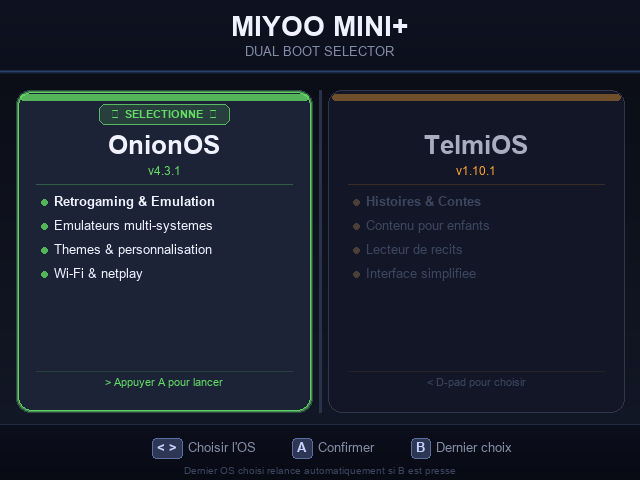
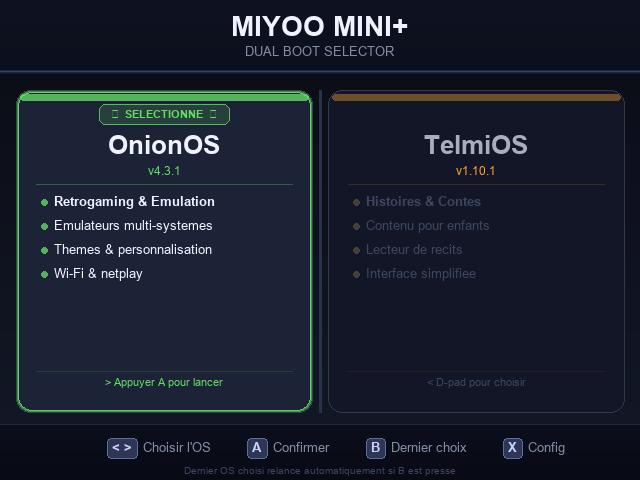
fix: changer declencheur config de SELECT vers X
Sur Miyoo Mini/Plus, SELECT envoie le meme code que A (57/97),
rendant impossible la distinction des deux boutons. Utilisation
du bouton X (code 33, inutilise dans le menu) comme declencheur
du menu de configuration.

- runtime.sh : X (33) -> mode config ; A restaure avec 57/97/305/315
- generate_bootmenu.py : ajout "X = Config" dans la barre d'aide
  des menus de boot (FR/EN/ES) ; previews mis a jour
- README.md : SELECT remplace par X dans toute la documentation

Changed region(s): [[0.1562, 0.9062, 0.875, 0.9688]]

diff --git a/generate_bootmenu.py b/generate_bootmenu.py
@@ -61,7 +61,7 @@ LANGUAGES = {
         ],
         "icon_sel":    "> Appuyer A pour lancer",
         "icon_nosel":  "< D-pad pour choisir",
-        "help": [("< >", "Choisir l'OS"), ("A", "Confirmer"), ("B", "Dernier choix")],
+        "help": [("< >", "Choisir l'OS"), ("A", "Confirmer"), ("B", "Dernier choix"), ("X", "Config")],
         "footer":      "Dernier OS choisi relance automatiquement si B est presse",
         "locked_title":  "ACCES PROTEGE",
         "locked_sub":    "Entrez le code secret",
@@ -85,7 +85,7 @@ LANGUAGES = {
         ],
         "icon_sel":    "> Press A to launch",
         "icon_nosel":  "< D-pad to choose",
-        "help": [("< >", "Choose OS"), ("A", "Confirm"), ("B", "Last choice")],
+        "help": [("< >", "Choose OS"), ("A", "Confirm"), ("B", "Last choice"), ("X", "Config")],
         "footer":      "Last chosen OS will auto-boot if B is pressed",
         "locked_title":  "PROTECTED ACCESS",
         "locked_sub":    "Enter the secret code",
@@ -109,7 +109,7 @@ LANGUAGES = {
         ],
         "icon_sel":    "> Pulsar A para iniciar",
         "icon_nosel":  "< D-pad para elegir",
-        "help": [("< >", "Elegir OS"), ("A", "Confirmar"), ("B", "Ultima eleccion")],
+        "help": [("< >", "Elegir OS"), ("A", "Confirmar"), ("B", "Ultima eleccion"), ("X", "Config")],
         "footer":      "El ultimo OS elegido arrancara automaticamente si se pulsa B",
         "locked_title":  "ACCESO PROTEGIDO",
         "locked_sub":    "Introduce el codigo secreto",

diff --git a/README.md b/README.md
@@ -49,7 +49,7 @@ Un bootloader léger qui affiche un menu graphique au démarrage pour choisir en
 - **3 langues** : Français, English, Español — menu et installateur traduits
 - **Compatibilité** Miyoo Mini (283) et Miyoo Mini Plus (354) — image pivotée 180° automatiquement pour MM
 - **Protection parentale** : code secret par séquence de boutons, configurable par OS (optionnel)
-- **Menu de configuration sur la console** : accessible via SELECT, protégé par code admin — modifie verrouillage, codes et vibrations directement depuis la Miyoo
+- **Menu de configuration sur la console** : accessible via **X**, protégé par code admin — modifie verrouillage, codes et vibrations directement depuis la Miyoo
 - **Compatible Telmi-Sync** : les histoires, sauvegardes et musiques sont accessibles depuis l'application Telmi-Sync sans reformater la carte
 - **Configuration** par fichier texte simple sur la SD — aucun accès PC requis après installation
 - **Installateur automatique** PowerShell — formate la SD en FAT32, copie tout, génère les images
@@ -204,7 +204,7 @@ Windows refuse de formater en FAT32 les cartes > 32 Go via son interface graphiq
 | **► Droite** | Passer sur TelmiOS |
 | **A** | Confirmer et lancer l'OS sélectionné |
 | **B** | Lancer directement le dernier OS utilisé (sans confirmer) |
-| **SELECT** | Ouvrir le menu de configuration (code requis) |
+| **X** | Ouvrir le menu de configuration (code requis) |
 | *(60 secondes sans action)* | Lance automatiquement le dernier OS mémorisé |
 
 Le choix est **mémorisé automatiquement** — au prochain démarrage, le dernier OS utilisé est présélectionné.
@@ -233,7 +233,7 @@ CONFIG_SEQUENCE="UP UP DOWN DOWN"       # code secret du menu de configuration
 
 Il est possible de configurer Bifrost **directement depuis la Miyoo**, sans accès au PC :
 
-1. Dans le menu de boot, appuie sur **SELECT**
+1. Dans le menu de boot, appuie sur **X**
 2. Entre le **code administrateur** (défaut : `UP UP DOWN DOWN`) puis **A**
 3. Navigue avec **Haut/Bas**, confirme avec **A**, retour avec **B**
 
@@ -342,7 +342,7 @@ A lightweight bootloader that displays a graphical menu at startup to choose bet
 - **3 languages**: Français, English, Español — both menu and installer are translated
 - **Compatibility** with Miyoo Mini (283) and Miyoo Mini Plus (354) — image auto-rotated 180° for MM
 - **Parental lock**: secret button sequence, configurable per OS (optional)
-- **On-device config menu**: accessible via SELECT, protected by admin code — change lock settings, codes and vibration directly from the Miyoo
+- **On-device config menu**: accessible via **X**, protected by admin code — change lock settings, codes and vibration directly from the Miyoo
 - **Telmi-Sync compatible**: stories, saves and music are accessible from the Telmi-Sync app without reformatting the card
 - **Configuration** via simple text file on SD — no PC needed after installation
 - **Automatic installer** in PowerShell — formats SD to FAT32, copies everything, generates images
@@ -497,7 +497,7 @@ Windows refuses to format cards > 32 GB as FAT32 through its GUI. Use **[Rufus](
 | **► Right** | Switch to TelmiOS |
 | **A** | Confirm and launch selected OS |
 | **B** | Directly launch the last used OS (skip menu) |
-| **SELECT** | Open configuration menu (code required) |
+| **X** | Open configuration menu (code required) |
 | *(60 seconds with no input)* | Automatically launches the last remembered OS |
 
 The choice is **automatically remembered** — on next startup the last used OS is pre-selected.
@@ -526,7 +526,7 @@ CONFIG_SEQUENCE="UP UP DOWN DOWN"       # secret code for the config menu
 
 You can configure Bifrost **directly from the Miyoo**, without a PC:
 
-1. In the boot menu, press **SELECT**
+1. In the boot menu, press **X**
 2. Enter the **admin code** (default: `UP UP DOWN DOWN`) then **A**
 3. Navigate with **Up/Down**, confirm with **A**, go back with **B**
 
